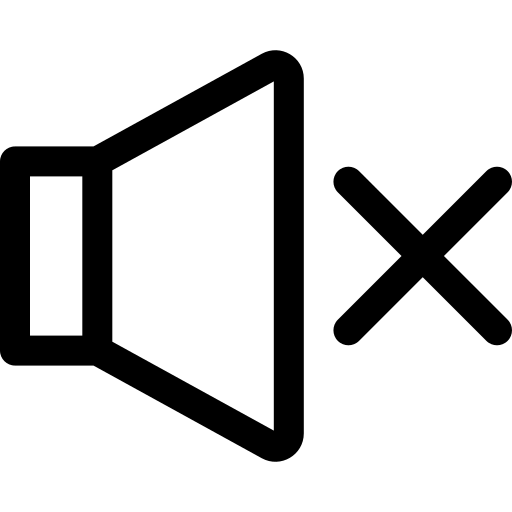
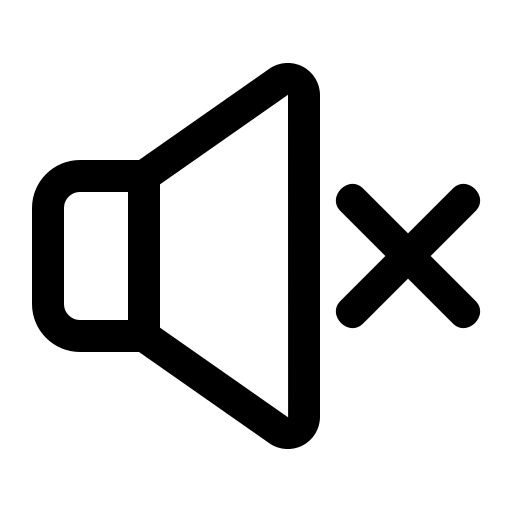
img태그 alt작성, soundOn-Off 버튼 구현

Changed region(s): [[0.0, 0.0938, 1.0, 0.9062]]

diff --git a/index.html b/index.html
@@ -14,12 +14,13 @@
   <audio id='wrongsound' src='./sound/wrong.WAV'></audio>
 
   <header id="header">
-    <img class="mainpage" id="mute" src="img/no-sound.png" onclick="mute()">
+    <img class="mainpage" id="soundoff" src="img/sound.png" alt="soundoffbtn" onclick="soundoff()" >
+    <img class="mainpage" id="soundon" src="img/no-sound.png" alt="soundonbtn" onclick="soundon()" style="display: none;">
     <h2 id="title">수하의 취향을 맞춰줘!</h2>
     <div id="background"></div>
   </header>
     <div class="landing" id="start">
-      <img id="startText" src="img/start.png">
+      <img id="startText" src="img/start.png" alt="gamedescription">
       <button id="startbtn" onclick="start()">시작하기</button>
       
     </div>
@@ -27,14 +28,14 @@
   <main id="main">
       <div class="board">
         <div class="cardSet mainpage">
-          <img class="card" onclick="clicked(this.id)" id="0" src='img/그림1.png' alt="coffee icon">
-          <img class="card" onclick="clicked(this.id)" id="1" src='img/그림2.png' alt="drawing icon">
-          <img class="card" onclick="clicked(this.id)" id="2"  src='img/그림3.png' alt="horrormovie icon">
-          <img class="card" onclick="clicked(this.id)" id="3" src='img/그림4.png' alt="coffee icon">
-          <img class="card" onclick="clicked(this.id)" id="4" src='img/그림5.png' alt="drawing icon">
-          <img class="card" onclick="clicked(this.id)" id="5"  src='img/그림6.png' alt="horrormovie icon">
+          <img class="card" onclick="clicked(this.id)" id="0" src='img/그림1.png' alt="documentary icon">
+          <img class="card" onclick="clicked(this.id)" id="1" src='img/그림2.png' alt="coffee icon">
+          <img class="card" onclick="clicked(this.id)" id="2"  src='img/그림3.png' alt="reading icon">
+          <img class="card" onclick="clicked(this.id)" id="3" src='img/그림4.png' alt="beer icon">
+          <img class="card" onclick="clicked(this.id)" id="4" src='img/그림5.png' alt="walk icon">
+          <img class="card" onclick="clicked(this.id)" id="5"  src='img/그림6.png' alt="painting icon">
           <img class="card" onclick="clicked(this.id)" id="6"  src='img/그림7.png' alt="horrormovie icon">
-          <img class="card" onclick="clicked(this.id)" id="7"  src='img/그림8.png' alt="horrormovie icon">
+          <img class="card" onclick="clicked(this.id)" id="7"  src='img/그림8.png' alt="music icon">
         </div>
       </section>
   
@@ -48,17 +49,17 @@
     <section>
       <div class="modal" id="correct" style="display: none;">
         <div class="modal_correct">
-          <img id="correctImg" src="img/me.PNG">
-          <img id="correctText" src="img/correctText.png">
-          <img id="closeicon" onclick="closecorrect()" src="img/close.png">
+          <img id="correctImg" src="img/me.PNG" alt="suha icon">
+          <img id="correctText" src="img/correctText.png" alt="correct text">
+          <img id="closeicon" onclick="closecorrect()" src="img/close.png" alt="close icon">
         </div>
       </div>
   
       <div class="modal" id="wrong" style="display: none;">
         <div class="modal_wrong">
-          <img id="wrongImg" src="img/sad.png">
-          <img id="wrongText" src="img/wrongText.png">
-          <img id="closeicon" onclick="closewrong()" src="img/close.png">
+          <img id="wrongImg" src="img/sad.png" alt="sad icon">
+          <img id="wrongText" src="img/wrongText.png" alt="wrong text">
+          <img id="closeicon" onclick="closewrong()" src="img/close.png" alt="close icon">
         </div>
       </div>
     </section>
@@ -78,7 +79,8 @@
         <a href="https://www.flaticon.com/free-icons/film" title="film icons">Film icons created by Octopocto - Flaticon</a>
         <a href="https://www.flaticon.com/free-icons/close" title="close icons">Close icons created by Pixel perfect - Flaticon</a>
         <a href="https://www.flaticon.com/free-icons/sad" title="sad icons">Sad icons created by Freepik - Flaticon</a>
-        <a href="https://www.flaticon.com/free-icons/silent" title="silent icons">Silent icons created by Freepik - Flaticon</a>
+        <a href="https://www.flaticon.com/free-icons/ui" title="ui icons">Ui icons created by Andrean Prabowo - Flaticon</a>
+        <a href="https://www.flaticon.com/free-icons/sound-off" title="sound off icons">Sound off icons created by Andrean Prabowo - Flaticon</a>
       </div>
   </footer>
   <script type="text/javascript" src="index.js"></script>

diff --git a/index.css b/index.css
@@ -41,7 +41,7 @@
     visibility: hidden;
   }
 
-  #mute {
+  #soundon, #soundoff {
     position: fixed;
     right: 5rem;
     top: 5rem;
@@ -136,7 +136,7 @@
   .card:active { 
     box-shadow: 1px 1px 0 rgb(0,0,0,0.5); 
     position: relative; 
-    top:2px; 
+    top:3px;
   }
 
   .btns {
@@ -147,7 +147,7 @@
     justify-content: center;
   }
 
-  #answer {
+  #answer, #restart {
     z-index: 8;
     height: 40px;
     width: 140px;
@@ -176,26 +176,9 @@
   }
 
   #restart {
-    z-index: 8;
-    height: 40px;
-    width: 140px;
-    justify-content: center;
-    align-items: center;
     background-color: #e7f4ff;
     border: 1px solid #e0f1fe;
-    border-radius: 11px;
     color: #2c85d3;
-    cursor: pointer;
-    display: flex;
-    font-size: 1rem;
-    font-weight: 700;
-    line-height: 30px;
-    padding: 2px 12px;
-    text-align: left;
-    text-decoration: none;
-    text-shadow: none;
-    transition: border .2s ease-in-out;
-    touch-action: manipulation;
   }
 
   #restart:hover {

diff --git a/index.js b/index.js
@@ -19,10 +19,22 @@ function start() {
   } 
 }
 
-// [bgm음소거] 버튼
-function mute() {
+// [soundoff] 버튼
+function soundoff() {
   const audio = document.getElementById('bgm'); 
-    audio.pause(); 
+  audio.pause();
+
+  document.getElementById('soundon').style.display='flex';
+  document.getElementById('soundoff').style.display='none';
+}
+
+// [soundon] 버튼
+function soundon() {
+  const audio = document.getElementById('bgm'); 
+  audio.play();
+
+  document.getElementById('soundoff').style.display='flex';
+  document.getElementById('soundon').style.display='none';
 }
 
 
@@ -47,7 +59,7 @@ function clicked(num) {
   else {
     const tmpArray = [my_answer]
     answerArray = [...answerArray, ...tmpArray];
-    document.getElementById(num).style.border='5px solid rgb(200, 230, 80)';
+    document.getElementById(num).style.border='3px solid rgb(200, 230, 80)';
   }
 
   // 클릭시 효과음
